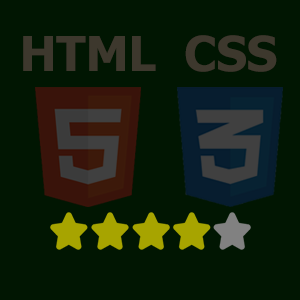
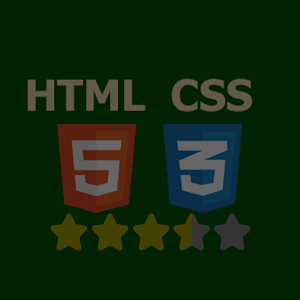
Skills rearranged

diff --git a/style.css b/style.css
@@ -183,6 +183,7 @@ html,body{
 }
 
 .skillItem{
+    border: 1px solid red;
 }
 
 #pySKILL{
@@ -193,7 +194,7 @@ html,body{
     background-repeat: no-repeat;
     background-position: center;
     transition: .3s;
-    clip-path: polygon(35% 4%, 79% 17%, 95% 38%, 93% 83%, 59% 98%, 3% 86%, 28% 57%, 4% 30%);
+    clip-path: polygon(50% 0%, 83% 12%, 100% 43%, 94% 78%, 68% 100%, 32% 100%, 6% 78%, 0% 43%, 17% 12%);
 }
 
 #pySKILL:hover{
@@ -211,7 +212,7 @@ html,body{
     background-repeat: no-repeat;
     background-position: center;
     transition: .3s;
-    clip-path: polygon(70% 0, 76% 20%, 100% 35%, 100% 70%, 88% 96%, 50% 100%, 11% 93%, 18% 56%, 3% 46%, 20% 10%);
+    clip-path: polygon(50% 0%, 83% 12%, 100% 43%, 94% 78%, 68% 100%, 32% 100%, 6% 78%, 0% 43%, 17% 12%);
 }
 
 #swiftSKILL:hover{
@@ -229,7 +230,7 @@ html,body{
     background-repeat: no-repeat;
     background-position: center;
     transition: .3s;
-    clip-path: polygon(10% 2%, 90% 39%, 86% 96%, 12% 88%);
+    clip-path: polygon(50% 0%, 83% 12%, 100% 43%, 94% 78%, 68% 100%, 32% 100%, 6% 78%, 0% 43%, 17% 12%);
 }
 
 #javaSKILL:hover{
@@ -247,7 +248,7 @@ html,body{
     background-repeat: no-repeat;
     background-position: center;
     transition: .3s;
-    clip-path: polygon(49% 45%, 80% 10%, 100% 35%, 92% 68%, 84% 90%, 50% 98%, 20% 90%, 6% 68%, 0% 35%, 20% 10%);
+    clip-path: polygon(50% 0%, 83% 12%, 100% 43%, 94% 78%, 68% 100%, 32% 100%, 6% 78%, 0% 43%, 17% 12%);
 }
 
 #cSKILL:hover{
@@ -265,7 +266,7 @@ html,body{
     background-repeat: no-repeat;
     background-position: center;
     transition: .3s;
-    clip-path: polygon(61% 1%, 98% 11%, 99% 63%, 84% 86%, 47% 96%, 0 100%, 1% 80%, 8% 48%, 0 26%, 6% 4%);
+    clip-path: polygon(50% 0%, 83% 12%, 100% 43%, 94% 78%, 68% 100%, 32% 100%, 6% 78%, 0% 43%, 17% 12%);
 }
 
 #htmlSKILL:hover{
@@ -283,7 +284,8 @@ html,body{
     background-repeat: no-repeat;
     background-position: center;
     transition: .3s;
-    clip-path: polygon(33% 26%, 88% 5%, 100% 91%, 83% 100%, 39% 96%, 4% 100%, 0 90%, 5% 65%, 31% 61%, 13% 31%);
+    clip-path: polygon(50% 0%, 83% 12%, 100% 43%, 94% 78%, 68% 100%, 32% 100%, 6% 78%, 0% 43%, 17% 12%);
+
 }
 
 #jsSKILL:hover{
@@ -301,7 +303,7 @@ html,body{
     background-repeat: no-repeat;
     background-position: center;
     transition: .3s;
-    clip-path: polygon(50% 0%, 100% 0, 100% 34%, 94% 70%, 79% 89%, 45% 97%, 17% 89%, 4% 75%, 5% 53%, 14% 24%);
+    clip-path: polygon(50% 0%, 83% 12%, 100% 43%, 94% 78%, 68% 100%, 32% 100%, 6% 78%, 0% 43%, 17% 12%);
 }
 
 #rubySKILL:hover{
@@ -319,7 +321,7 @@ html,body{
     background-repeat: no-repeat;
     background-position: center;
     transition: .3s;
-    clip-path: polygon(29% 13%, 63% 42%, 100% 34%, 88% 97%, 63% 89%, 38% 96%, 24% 87%, 3% 96%, 5% 53%, 1% 31%);
+    clip-path: polygon(50% 0%, 83% 12%, 100% 43%, 94% 78%, 68% 100%, 32% 100%, 6% 78%, 0% 43%, 17% 12%);
 }
 
 #sqlSKILL:hover{
@@ -327,6 +329,18 @@ html,body{
     background-size: contain;
     background-repeat: no-repeat;
     background-position: center;
+}
+
+
+#dexSKILL{
+    grid-column: span 4;
+    grid-row: span 4;
+    background: url(media/dexter.png);
+    background-size: contain;
+    background-repeat: no-repeat;
+    background-position: center;
+    transition: .3s;
+    clip-path: circle(0.0% at 0% 0%);
 }
 
 /*###########################################################################################page4*/
@@ -342,6 +356,7 @@ html,body{
     width: 100%;
     background: rgb(86,31,19);
     background: radial-gradient(circle, rgba(86,31,19,1) 49%, rgba(245,222,179,1) 250%);
+
 }
 #about-container{
     display: grid;

diff --git a/Brain.js b/Brain.js
@@ -100,42 +100,48 @@ $("#classroomLabImage").click(function(){
 $(document).mousemove(function(e){
     $('#skills-letter-spacing').css({'letter-spacing':''+(e.pageY)/75 + 'px'})
 })
-
-for(i=1 ; i<=16*14 ; i++){
-    if(i == 21){
-        document.getElementById("skills-container").insertAdjacentHTML('beforeend','<div class="skillItem" id="pySKILL"></div>')
-        continue;
-    }
-    if(i == 40){
-        document.getElementById("skills-container").insertAdjacentHTML('beforeend','<div class="skillItem" id="swiftSKILL"></div>')
-        continue;
-    }
-    if(i == 52){
-        document.getElementById("skills-container").insertAdjacentHTML('beforeend','<div class="skillItem" id="javaSKILL"></div>')
-        continue;
-    }
-    if(i == 59){
-        document.getElementById("skills-container").insertAdjacentHTML('beforeend','<div class="skillItem" id="cSKILL"></div>')
-        continue;
-    }
-    if(i == 72){
-        document.getElementById("skills-container").insertAdjacentHTML('beforeend','<div class="skillItem" id="htmlSKILL"></div>')
-        continue;
-    }
-    if(i == 102){
-        document.getElementById("skills-container").insertAdjacentHTML('beforeend','<div class="skillItem" id="jsSKILL"></div>')
-        continue;
-    }
-    if(i == 118){
-        document.getElementById("skills-container").insertAdjacentHTML('beforeend','<div class="skillItem" id="rubySKILL"></div>')
-        continue;
-    }
-    if(i == 133){
-        document.getElementById("skills-container").insertAdjacentHTML('beforeend','<div class="skillItem" id="sqlSKILL"></div>')
+var skillsIds;
+skillsIds = {
+    5: "pySKILL",
+    8: "swiftSKILL",
+    33: "javaSKILL",
+    44: "cSKILL",
+    71:"dexSKILL",
+    78: "htmlSKILL",
+    85: "jsSKILL",
+    118: "rubySKILL",
+    121: "sqlSKILL"
+}
+    for(i = 1 ; i <= 16 * 10; i++){
+    if(skillsIds[i]!= undefined){
+        document.getElementById("skills-container").insertAdjacentHTML('beforeend','<div class="skillItem" id="'+skillsIds[i]+'"></div>')
         continue;
     }
     document.getElementById("skills-container").insertAdjacentHTML('beforeend','<div class="skillItem"></div>')
 }
+var lastX = 0;
+var lastY = 0;
+
+$(document).mousemove(function(e) {
+
+    var relX = (e.pageX -  $('#dexSKILL').offset().left) / 2.7;
+    var relY = (e.pageY - $('#dexSKILL').offset().top) / 2.7;
+     relX = Math.floor(relX);
+     relY = Math.floor(relY);
+    if(lastX != relX || lastY != relY){
+            console.log("X: "+relX+" | Y: "+relY + " ~~~~~~~ LAST X: "+ lastX + " | LAST Y: " + lastY);
+        $('#dexSKILL').css({'clip-path':'circle(25.0% at '+relX+'% '+relY+'%)'});
+    }
+
+    lastX = relX;
+    lastY = relY;
+//        clip-path: circle(25.0% at -5% -5%);
+
+});
+// $(document).mousemove(function(e){
+//     $('#dexSKILL').css({'clip-path':''+(e.pageY)/95 + 'px'})
+// })
+
 
 //##############################################################################################################page4
 

diff --git a/index.html b/index.html
@@ -78,7 +78,7 @@
             </div>
             <div class="text_pair">
                 <h4>Mail</h4>
-                <a href="MAILTO:ciramihai291@gmail.com" style="text-decoration: none;"> <h4 style="left: 100%;"> ✉ ciramihai291@gmail.com</h4></a>
+                <a href="mailto:ciramihai291@gmail.com" style="text-decoration: none;"> <h4 style="left: 100%;"> ✉ ciramihai291@gmail.com</h4></a>
             </div>
             <div class="text_pair">
                 <h4>University</h4>
@@ -95,7 +95,7 @@
         </div>
         <div class="about-Item">
             <h1 style="float: left;" id="experience">experience()</h1>
-            <hr>
+            <hr class="hr_p">
             <h4>Member of CSH Robotics Team (Zero Robotics Competition) <span>&emsp;&ndash;&emsp; 2017</span></h4>
             <h4>Python Mentor (CSH Team) <span>&emsp;&ndash;&emsp; 2019-2020</span></h4>
             <h4>Member Clasroom Laboratory project (Web Developer)<span>&emsp;&ndash;&emsp; 2020 - present</span></h4>
